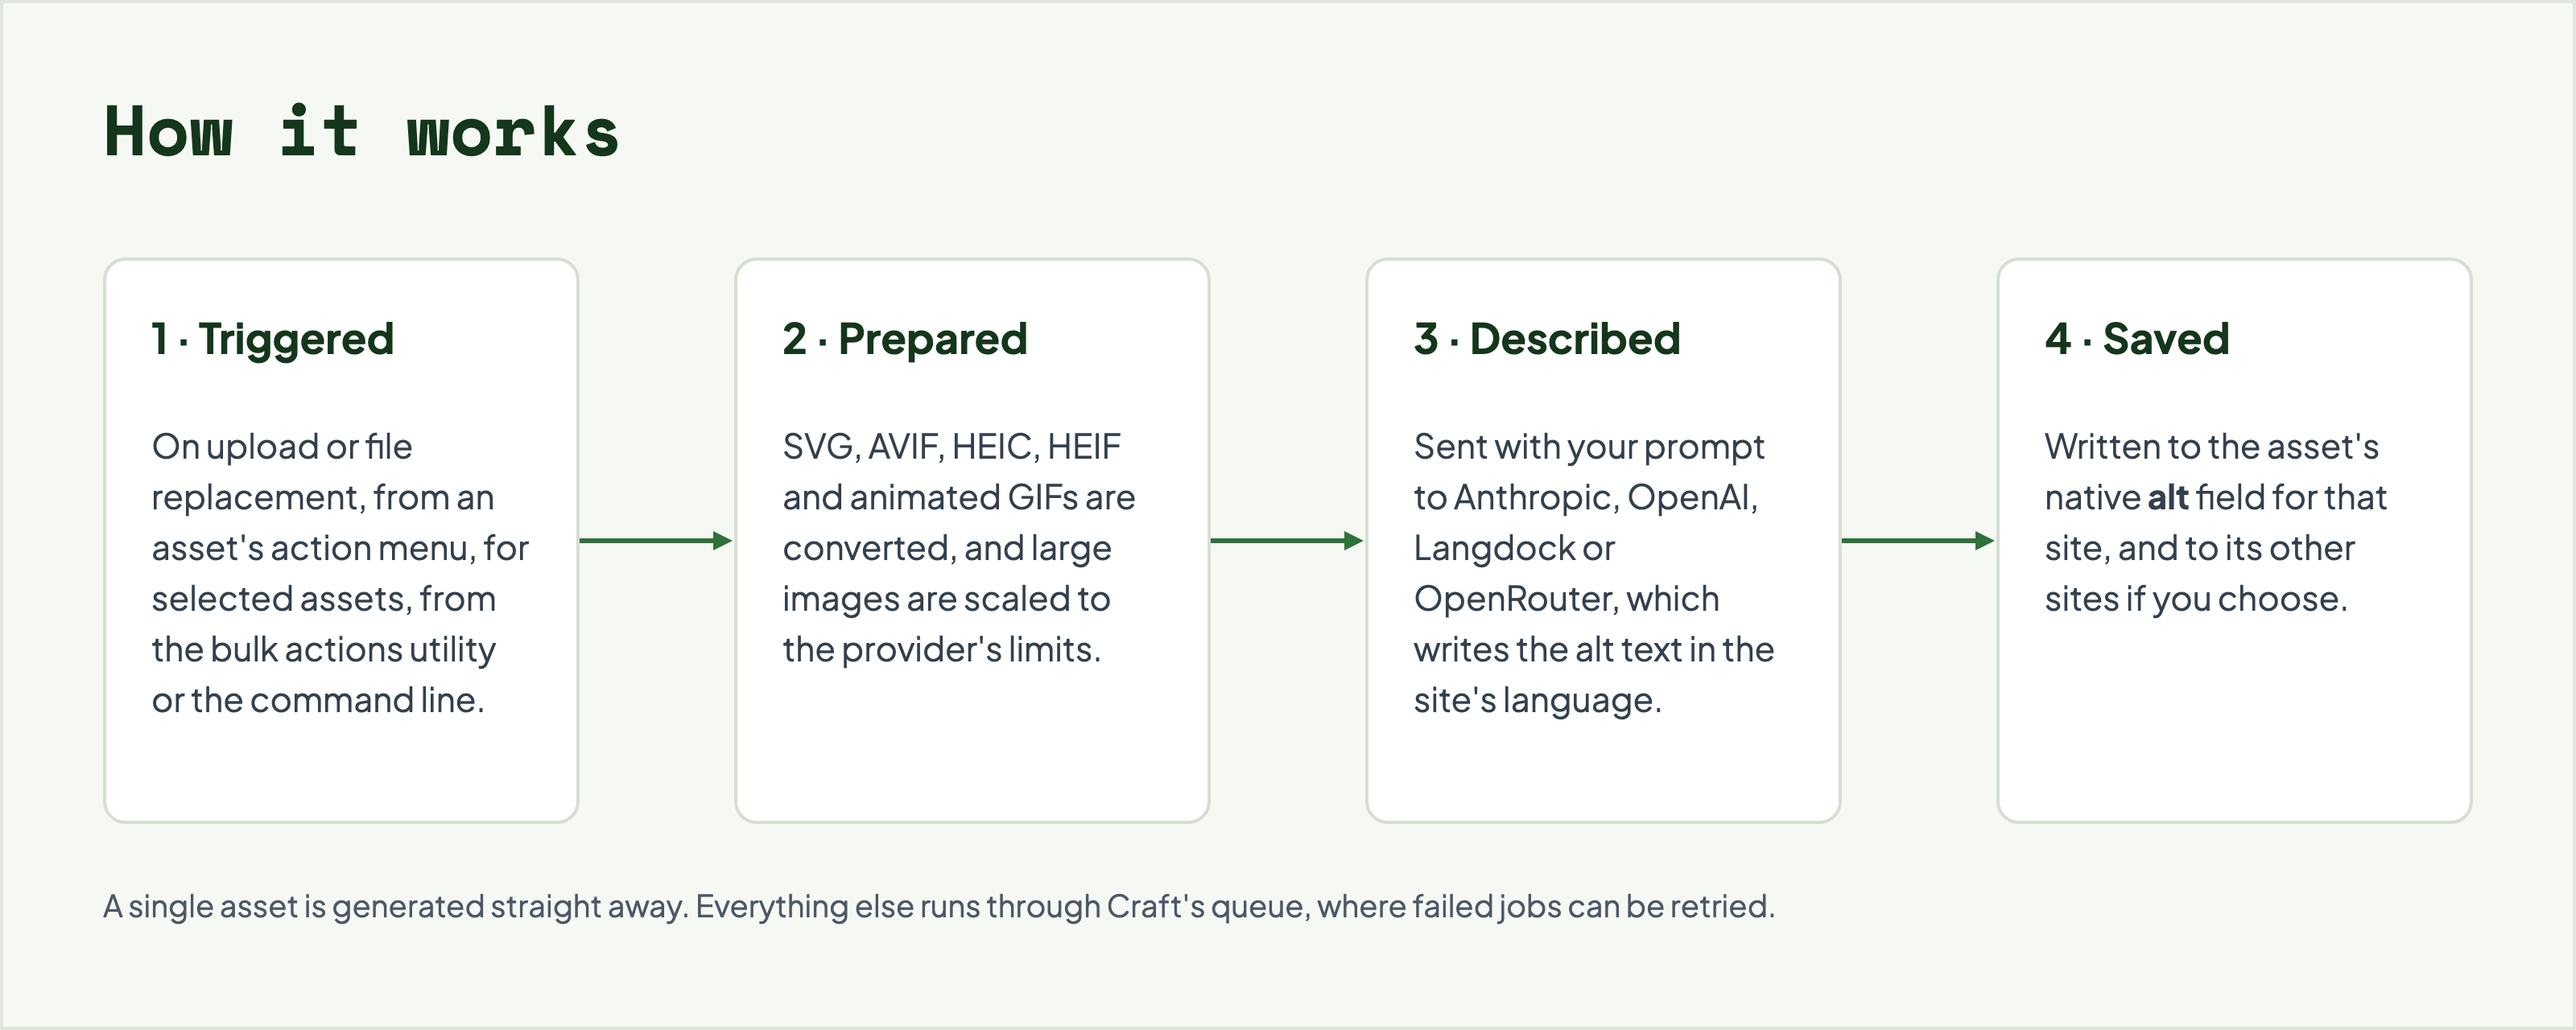
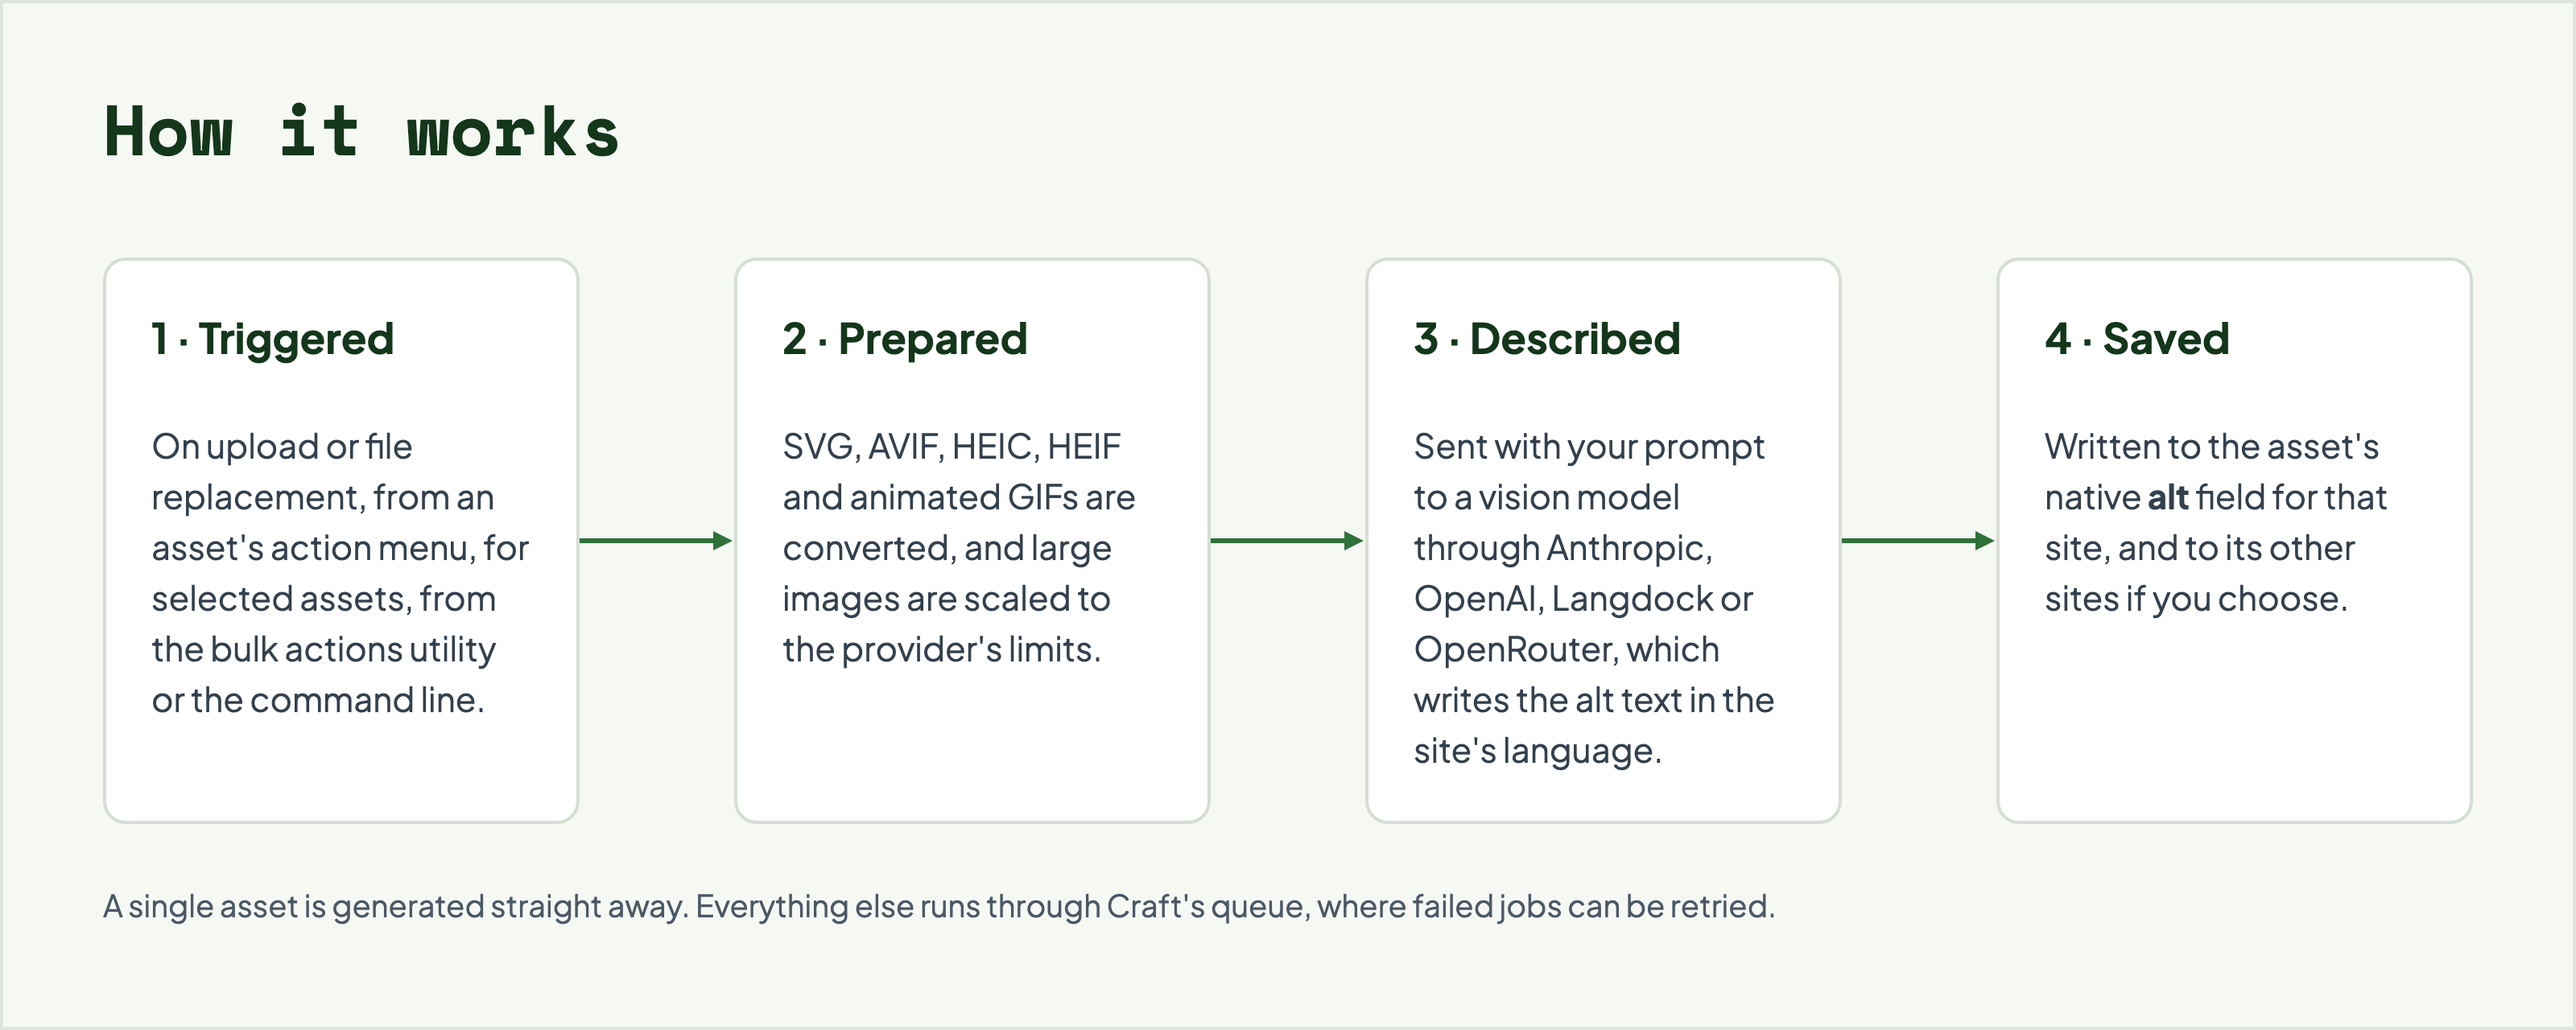
docs: say a vision model, through the provider, describes the image in the how-it-works and image-preparation diagrams

Changed region(s): [[0.5312, 0.4688, 0.6875, 0.5938], [0.5312, 0.625, 0.6875, 0.6875], [0.5312, 0.7188, 0.6562, 0.75]]

diff --git a/PLUGIN_STORE_README.md b/PLUGIN_STORE_README.md
@@ -21,7 +21,7 @@ Write alt text for every image on your Craft site with AI: one click, in bulk, o
 - **Your prompt, your rules.** Edit the instructions sent to the AI, with `{asset.*}` and `{site.*}` variables. See [Settings](https://github.com/heavymetalavo/craft-aialttext/blob/5.x/docs/settings.md#-default-prompt).
 - **Permissions built in.** Bulk generation has its own utility permission, and single assets follow the asset's own save permission.
 
-![How it works, in four steps. 1, triggered: on upload or file replacement, from an asset's action menu, for selected assets, from the bulk actions utility or the command line. 2, prepared: SVG, AVIF, HEIC, HEIF and animated GIFs are converted, and large images are scaled to the provider's limits. 3, described: sent with your prompt to Anthropic, OpenAI, Langdock or OpenRouter, which writes the alt text in the site's language. 4, saved: written to the asset's native alt field for that site, and to its other sites if you choose.](https://raw.githubusercontent.com/heavymetalavo/craft-aialttext/5.x/docs/images/how-it-works.png)
+![How it works, in four steps. 1, triggered: on upload or file replacement, from an asset's action menu, for selected assets, from the bulk actions utility or the command line. 2, prepared: SVG, AVIF, HEIC, HEIF and animated GIFs are converted, and large images are scaled to the provider's limits. 3, described: sent with your prompt to a vision model through Anthropic, OpenAI, Langdock or OpenRouter, which writes the alt text in the site's language. 4, saved: written to the asset's native alt field for that site, and to its other sites if you choose.](https://raw.githubusercontent.com/heavymetalavo/craft-aialttext/5.x/docs/images/how-it-works.png)
 
 ## 🎬 Video walkthrough
 

diff --git a/docs/images.md b/docs/images.md
@@ -4,7 +4,7 @@
 
 How the plugin prepares images for each AI provider, and the limits to know about.
 
-![How images are prepared. Your image, any JPG, PNG, WebP, GIF, SVG, AVIF, HEIC or HEIF asset on a public or private volume, is converted: SVG, AVIF, HEIC and HEIF are converted, animated GIFs use their first frame, and transparent areas are filled white, or grey for light artwork. It's scaled down if it's over the provider's limits, using your image detail setting. It's sent as a URL, or as base64 for SVGs, animated GIFs, transparent images, private volumes, OpenRouter and Langdock's Anthropic models. The AI provider describes it and returns the alt text. Opaque PNG, JPG, WebP and still GIF images within the limits are sent unchanged, and filled images tell the AI their background is transparent.](images/image-preparation.png)
+![How images are prepared. Your image, any JPG, PNG, WebP, GIF, SVG, AVIF, HEIC or HEIF asset on a public or private volume, is converted: SVG, AVIF, HEIC and HEIF are converted, animated GIFs use their first frame, and transparent areas are filled white, or grey for light artwork. It's scaled down if it's over the provider's limits, using your image detail setting. It's sent as a URL, or as base64 for SVGs, animated GIFs, transparent images, private volumes, OpenRouter and Langdock's Anthropic models. A vision model, through Anthropic, OpenAI, Langdock or OpenRouter, describes it and returns the alt text. Opaque PNG, JPG, WebP and still GIF images within the limits are sent unchanged, and filled images tell the AI their background is transparent.](images/image-preparation.png)
 
 ## Provider-Specific Limits
 

diff --git a/README.md b/README.md
@@ -21,7 +21,7 @@ Write alt text for every image on your Craft site with AI: one click, in bulk, o
 - **Your prompt, your rules.** Edit the instructions sent to the AI, with `{asset.*}` and `{site.*}` variables. See [Settings](docs/settings.md#-default-prompt).
 - **Permissions built in.** Bulk generation has its own utility permission, and single assets follow the asset's own save permission.
 
-![How it works, in four steps. 1, triggered: on upload or file replacement, from an asset's action menu, for selected assets, from the bulk actions utility or the command line. 2, prepared: SVG, AVIF, HEIC, HEIF and animated GIFs are converted, and large images are scaled to the provider's limits. 3, described: sent with your prompt to Anthropic, OpenAI, Langdock or OpenRouter, which writes the alt text in the site's language. 4, saved: written to the asset's native alt field for that site, and to its other sites if you choose.](docs/images/how-it-works.png)
+![How it works, in four steps. 1, triggered: on upload or file replacement, from an asset's action menu, for selected assets, from the bulk actions utility or the command line. 2, prepared: SVG, AVIF, HEIC, HEIF and animated GIFs are converted, and large images are scaled to the provider's limits. 3, described: sent with your prompt to a vision model through Anthropic, OpenAI, Langdock or OpenRouter, which writes the alt text in the site's language. 4, saved: written to the asset's native alt field for that site, and to its other sites if you choose.](docs/images/how-it-works.png)
 
 ## 🎬 Video walkthrough
 
